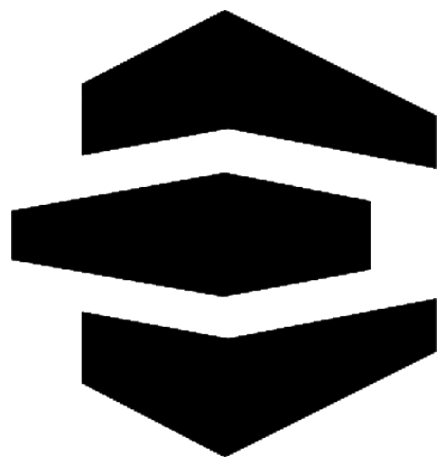
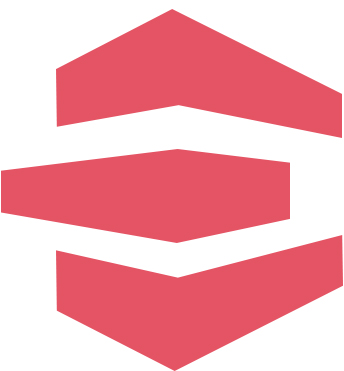
website update

diff --git a/Repos/EbenWebsite/EbenWeb/wwwroot/assets/css/skins/default.css b/Repos/EbenWebsite/EbenWeb/wwwroot/assets/css/skins/default.css
@@ -26,28 +26,28 @@
     background: #2339d6;
 }
 
-.contact-3 .contact-info .ci-box .icon i{
-    color: #2339d6;
+.contact-3 .contact-info .ci-box .icon i {
+    color: #ef5169;
 }
 
-.plan-price{
-    color: #2339d6;
+.plan-price {
+    color: #ef5169;
 }
 
-.contact-2 .contact-info i{
-    color: #2339d6;
+.contact-2 .contact-info i {
+    color: #ef5169;
 }
 
 .contact-1 .contact-info .ci-box .icon i {
-    color: #2339d6;
+    color: #ef5169;
 }
 
 #search-area-5 {
-    background: #2339d6;
+    background: #ef5169;
 }
 
-.banner .meta ul li i{
-    color: #2339d6;
+.banner .meta ul li i {
+    color: #ef5169;
 }
 
 .main-header .bg-active{
@@ -631,7 +631,7 @@ li.active.btn.filtr-button.filtr {
     }
 
     .navbar-light .navbar-toggler {
-        background: #2339d6;
+        background: #ef5169;
         color: #fff;
     }
 

diff --git a/Repos/EbenWebsite/EbenWeb/wwwroot/assets/css/style.css b/Repos/EbenWebsite/EbenWeb/wwwroot/assets/css/style.css
@@ -3808,7 +3808,7 @@ a {
     background-position: center center;
     background-repeat: no-repeat;
     background-size: cover;
-    background: url(../img/img-4.jpg);
+    background: url(../img/img-jhb.jpg);
     position: relative;
     background-size: cover;
 }

diff --git a/Repos/EbenWebsite/Eben.Business/Services/EmailService.cs b/Repos/EbenWebsite/Eben.Business/Services/EmailService.cs
@@ -8,10 +8,9 @@ namespace Eben.Business.Services
 {
     public class EmailService
     {
-        public bool SendEmail(ContactModel contact)
+        public string SendEmail(ContactModel contact)
         {
-          //  string Name, string email, string CCEmail, string Subject, string MessageText, List< Attachment > Attachments = null, string AttachmentNames = ""
-            try
+           try
             {
                 var message = new MailMessage
                 {
@@ -19,53 +18,39 @@ namespace Eben.Business.Services
                 };
 
                 message.To.Add("info@ebenproperty.co.za");
-                //if (!string.IsNullOrWhiteSpace(c))
-                //{
-                //    message.CC.Add(CCEmail);
-                //}
-
                 message.Subject = contact.Service;
-                message.IsBodyHtml = true;
                 message.Body = contact.Message;
+                message.IsBodyHtml = true;
                 var client = new SmtpClient
                 {
-#if DEBUG
                     Host = "mail.ebenproperty.co.za",
+                    DeliveryMethod = SmtpDeliveryMethod.Network,
+                    EnableSsl = false,
+                    Credentials = new System.Net.NetworkCredential("info@ebenproperty.co.za", "eben1234@1"),
+                    UseDefaultCredentials = false,
                     Port = 25,
-                    Credentials = new System.Net.NetworkCredential("info@ebenproperty.co.za", "eben1234@1@")
+            };
 
-#else
-                    Host = "localhost",
-                    Port = 25
-#endif
-                };
-
-                //if (Attachments != null)
-                //{
-                //    foreach (Attachment attachment in Attachments)
-                //    {
-                //        attachment.Name = AttachmentNames;
-                //        message.Attachments.Add(attachment);
-                //    }
-                //}
 
                 try
                 {
+                    message.IsBodyHtml = true;
                     client.Send(message);
                     message.Attachments.Dispose();
                     message.Dispose();
-                    return true;
+                    
+                    return "True";
                 }
                 catch (SmtpException s)
                 {
                     message.Attachments.Dispose();
                     message.Dispose();
-                    return false;
+                    return s.Message;
                 }
             }
             catch (Exception e)
             {
-                return false;
+                return e.Message;
             }
         }
 

diff --git a/Repos/EbenWebsite/EbenWeb/Startup.cs b/Repos/EbenWebsite/EbenWeb/Startup.cs
@@ -1,14 +1,17 @@
 using System;
 using System.Collections.Generic;
+using System.IO;
 using System.Linq;
 using System.Threading.Tasks;
 using Eben.Business.Contracts;
 using Eben.Business.Services;
 using Microsoft.AspNetCore.Builder;
 using Microsoft.AspNetCore.Hosting;
+using Microsoft.AspNetCore.Http;
 using Microsoft.Extensions.Configuration;
 using Microsoft.Extensions.DependencyInjection;
 using Microsoft.Extensions.Hosting;
+using Microsoft.Extensions.Hosting.Internal;
 
 namespace EbenWeb
 {
@@ -17,6 +20,25 @@ namespace EbenWeb
         public Startup(IConfiguration configuration)
         {
             Configuration = configuration;
+
+            //var logLevel = configuration.GetSection("Logging").GetSection("LogLevel").GetValue<string>("Default");
+
+            //var levelSwitch = new LoggingLevelSwitch
+            //{
+            //    MinimumLevel = (Serilog.Events.LogEventLevel)Enum.Parse(typeof(Serilog.Events.LogEventLevel), logLevel, true)
+            //};
+           //var loc = Path.GetDirectoryName(System.Reflection.Assembly.GetExecutingAssembly().Location);
+           // var logpath = System.IO.Path.GetDirectoryName(loc);
+           // Log.Logger = new LoggerConfiguration()
+           //     .MinimumLevel.ControlledBy(levelSwitch)
+           //     .Enrich.WithThreadId()
+           //     .WriteTo.File(
+           //         path: logpath + "\\wwwroot\\Logs",
+           //         rollingInterval: RollingInterval.Day,
+           //         rollOnFileSizeLimit: true,
+           //         fileSizeLimitBytes: 52428800,
+           //         outputTemplate: "{Timestamp: yyyy-MM-dd HH:mm:ss.fff zzz} [{Level:u3}]<{ThreadId}> {Message:lj} {NewLine}{Exception}")
+           //     .CreateLogger();
         }
 
         public IConfiguration Configuration { get; }

diff --git a/Repos/EbenWebsite/EbenWeb/Controllers/HomeController.cs b/Repos/EbenWebsite/EbenWeb/Controllers/HomeController.cs
@@ -9,6 +9,7 @@ using EbenWeb.Models;
 using Eben.Business.Contracts;
 using Eben.Business.Models;
 using Eben.Business.Services;
+using System.Text;
 
 namespace EbenWeb.Controllers
 {
@@ -51,16 +52,24 @@ namespace EbenWeb.Controllers
         [HttpPost]
         public virtual JsonResult contact(Contact co)
         {
+            StringBuilder body = new StringBuilder();
+            body.Append("Name: " + co.Name);
+            body.Append(Environment.NewLine + "Mobile Number: " + co.Phone);
+            body.Append(Environment.NewLine + "Email: " + co.Email);
+            body.Append(Environment.NewLine + "Message: " + co.Message);
             //public string Service { get; set; }
             var contact = new ContactModel()
             {
                 Name = co.Name,
                 Email = co.Email,
                 Phone = co.Phone,
-                Message = co.Message
-            }; 
+                Message = body.ToString()
+                }; 
             switch (co.Service)
             {
+                case "IA":
+                    contact.Service = "Investment Advice";
+                    break;
                 case "SE":
                     contact.Service = "Accounting and Tax returns";
                     break;
@@ -76,6 +85,7 @@ namespace EbenWeb.Controllers
             }
             var emailServ = new EmailService();
             emailServ.SendEmail(contact);
+            
             return Json(true);
         }
 

diff --git a/Repos/EbenWebsite/EbenWeb/Models/Contact.cs b/Repos/EbenWebsite/EbenWeb/Models/Contact.cs
@@ -12,6 +12,7 @@ namespace EbenWeb.Models
         public List<SelectListItem> Services { get; } = new List<SelectListItem>
         {
             new SelectListItem { Value = "SE", Text = "What services do you require"  },
+            new SelectListItem {Value = "IA", Text= "Investment Advice"},
             new SelectListItem { Value = "AX", Text = "Accounting and Tax returns" },
             new SelectListItem { Value = "RM", Text = "Rental management" },
              new SelectListItem { Value = "PM", Text = "Property maintenance" },

diff --git a/Repos/EbenWebsite/Eben.Business/Models/ContactModel.cs b/Repos/EbenWebsite/Eben.Business/Models/ContactModel.cs
@@ -1,5 +1,4 @@
 using System.Collections.Generic;
-using System.Web.Mvc;
 
 namespace Eben.Business.Models
 {
